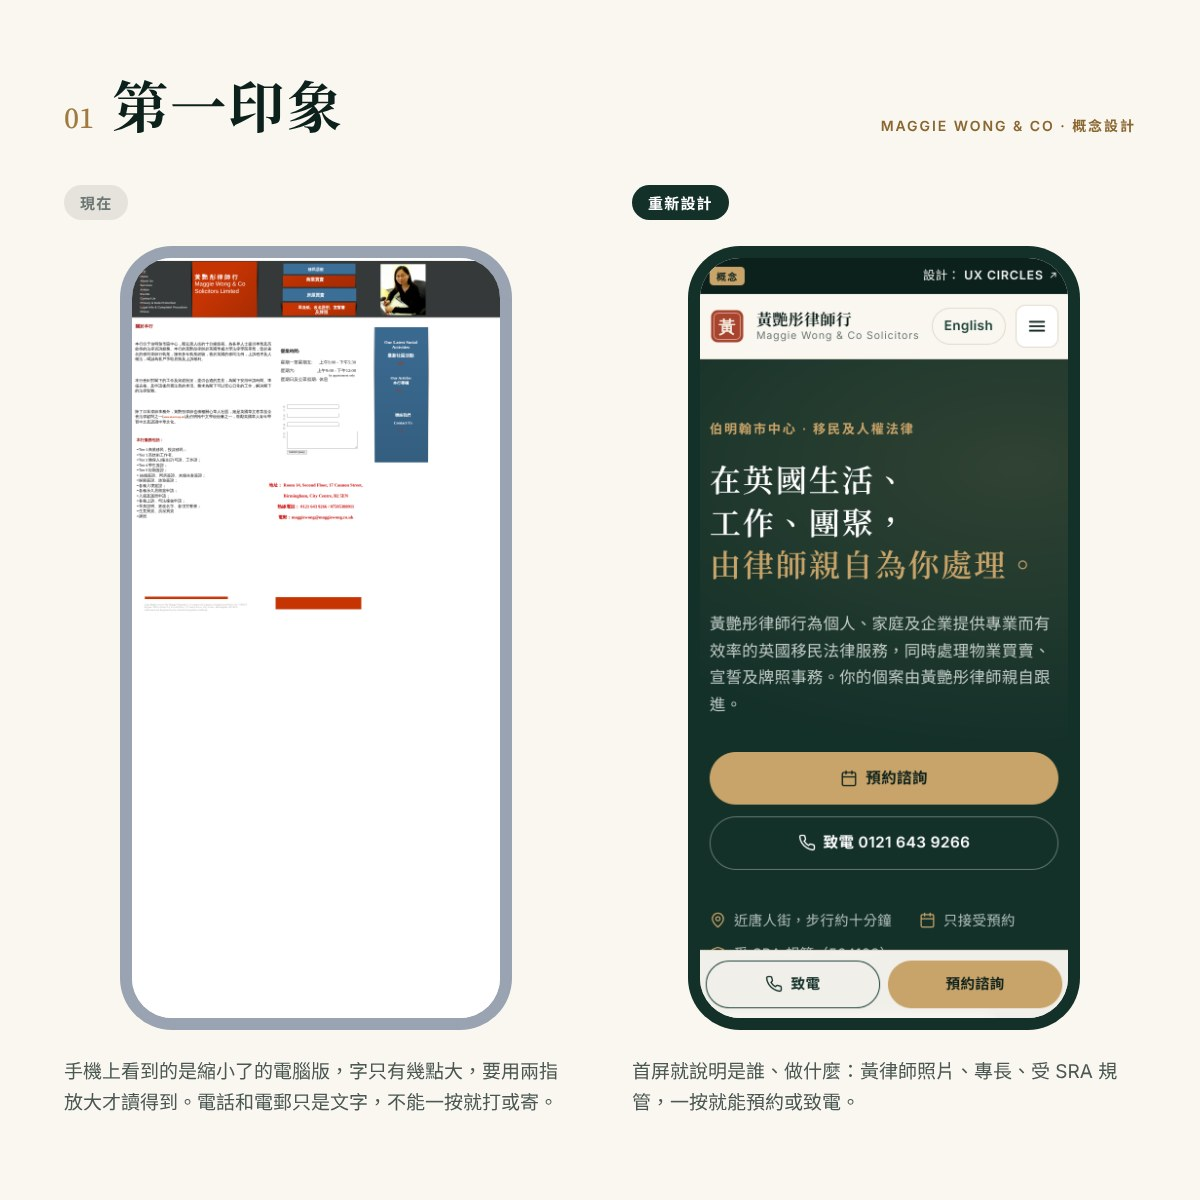
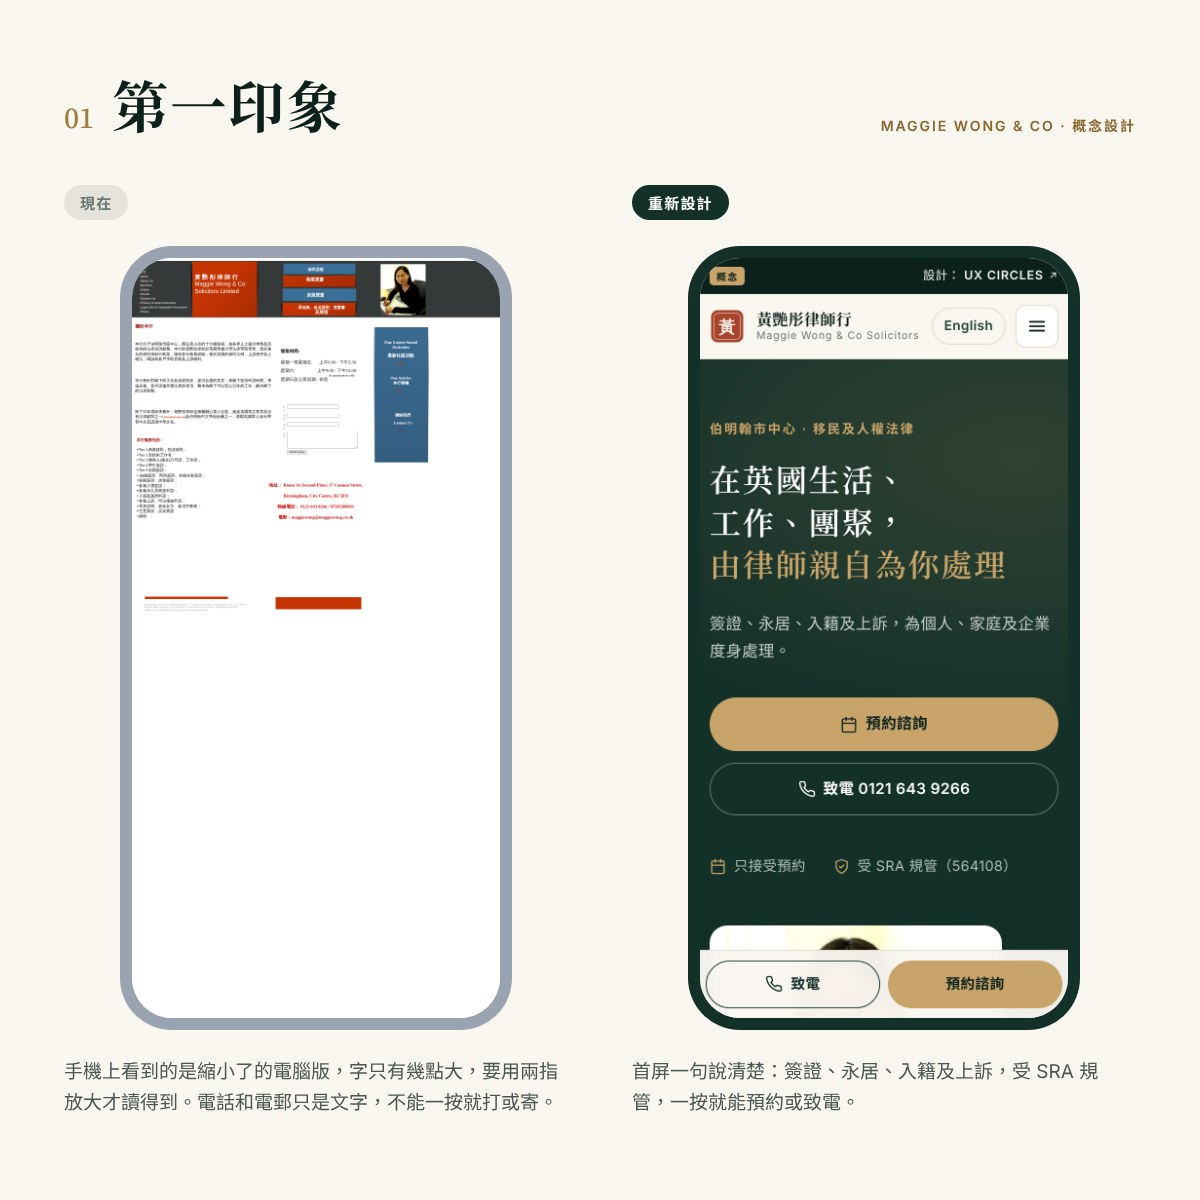
Trim the hero copy
Shortens the hero lead to one line, drops the Chinatown note (the
eyebrow and contact section already cover location), shortens the
English headline and removes the headline's closing full stop.
Regenerates before/after card 01 to match.

Claude-Session: https://claude.ai/code/session_012xdZwiqfE8irQNKYP29mur

Changed region(s): [[0.5858, 0.4933, 0.8942, 0.8017], [0.555, 0.8633, 0.925, 0.925]]

diff --git a/home.html b/home.html
@@ -46,13 +46,13 @@
   <div class="container">
     <div>
       <p class="eyebrow">伯明翰市中心 · 移民及人權法律</p>
-      <h1><span class="nw">在英國生活、</span><span class="nw">工作、團聚，</span><br><em><span class="nw">由律師親自</span><span class="nw">為你處理。</span></em></h1>
-      <p class="hero-lead">黃艷彤律師行為個人、家庭及企業提供專業而有效率的英國移民法律服務，同時處理物業買賣、宣誓及牌照事務。你的個案由黃艷彤律師親自跟進。</p>
+      <h1><span class="nw">在英國生活、</span><span class="nw">工作、團聚，</span><br><em><span class="nw">由律師親自</span><span class="nw">為你處理</span></em></h1>
+      <p class="hero-lead">簽證、永居、入籍及上訴，為個人、家庭及企業度身處理。</p>
       <div class="hero-cta">
         <a class="btn btn-primary" href="#contact"><svg viewBox="0 0 24 24" fill="none" stroke="currentColor" stroke-width="1.8" stroke-linecap="round" stroke-linejoin="round" aria-hidden="true"><rect x="3" y="4" width="18" height="18" rx="2"/><path d="M16 2v4M8 2v4M3 10h18"/></svg>預約諮詢</a>
         <a class="btn btn-ghost" href="tel:+441216439266"><svg viewBox="0 0 24 24" fill="none" stroke="currentColor" stroke-width="1.8" stroke-linecap="round" stroke-linejoin="round" aria-hidden="true"><path d="M22 16.9v3a2 2 0 0 1-2.2 2 19.8 19.8 0 0 1-8.6-3.1 19.5 19.5 0 0 1-6-6A19.8 19.8 0 0 1 2.1 4.2 2 2 0 0 1 4.1 2h3a2 2 0 0 1 2 1.7c.1.9.4 1.8.7 2.7a2 2 0 0 1-.5 2.1L8 9.8a16 16 0 0 0 6 6l1.3-1.3a2 2 0 0 1 2.1-.4c.9.3 1.8.6 2.7.7a2 2 0 0 1 1.7 2z"/></svg>致電 0121 643 9266</a>
       </div>
-      <ul class="hero-meta"><li><svg viewBox="0 0 24 24" fill="none" stroke="currentColor" stroke-width="1.8" stroke-linecap="round" stroke-linejoin="round" aria-hidden="true"><path d="M20 10c0 6-8 12-8 12s-8-6-8-12a8 8 0 0 1 16 0z"/><circle cx="12" cy="10" r="3"/></svg>近唐人街，步行約十分鐘</li><li><svg viewBox="0 0 24 24" fill="none" stroke="currentColor" stroke-width="1.8" stroke-linecap="round" stroke-linejoin="round" aria-hidden="true"><rect x="3" y="4" width="18" height="18" rx="2"/><path d="M16 2v4M8 2v4M3 10h18"/></svg>只接受預約</li><li><svg viewBox="0 0 24 24" fill="none" stroke="currentColor" stroke-width="1.8" stroke-linecap="round" stroke-linejoin="round" aria-hidden="true"><path d="M12 22s8-4 8-10V5l-8-3-8 3v7c0 6 8 10 8 10z"/><path d="m9 12 2 2 4-4"/></svg>受 SRA 規管（564108）</li></ul>
+      <ul class="hero-meta"><li><svg viewBox="0 0 24 24" fill="none" stroke="currentColor" stroke-width="1.8" stroke-linecap="round" stroke-linejoin="round" aria-hidden="true"><rect x="3" y="4" width="18" height="18" rx="2"/><path d="M16 2v4M8 2v4M3 10h18"/></svg>只接受預約</li><li><svg viewBox="0 0 24 24" fill="none" stroke="currentColor" stroke-width="1.8" stroke-linecap="round" stroke-linejoin="round" aria-hidden="true"><path d="M12 22s8-4 8-10V5l-8-3-8 3v7c0 6 8 10 8 10z"/><path d="m9 12 2 2 4-4"/></svg>受 SRA 規管（564108）</li></ul>
     </div>
     <figure class="portrait" style="margin:0">
       <div class="portrait-frame"><img src="assets/img/maggie-wong.jpg" alt="黃艷彤律師在辦公室" width="403" height="480"></div>

diff --git a/index.html b/index.html
@@ -46,13 +46,13 @@
   <div class="container">
     <div>
       <p class="eyebrow">Birmingham city centre · Immigration &amp; human rights</p>
-      <h1>Live, work and be with family in the UK — <em>with a solicitor who handles your case personally.</em></h1>
-      <p class="hero-lead">Maggie Wong &amp; Co provides professional, efficient UK immigration advice for individuals, families and businesses, as well as property, declarations and licensing work. Your case is handled by Maggie Wong herself.</p>
+      <h1>Live, work and be with family in the UK — <em>handled by your solicitor</em></h1>
+      <p class="hero-lead">Visas, settlement, citizenship and appeals for individuals, families and businesses.</p>
       <div class="hero-cta">
         <a class="btn btn-primary" href="#contact"><svg viewBox="0 0 24 24" fill="none" stroke="currentColor" stroke-width="1.8" stroke-linecap="round" stroke-linejoin="round" aria-hidden="true"><rect x="3" y="4" width="18" height="18" rx="2"/><path d="M16 2v4M8 2v4M3 10h18"/></svg>Book a consultation</a>
         <a class="btn btn-ghost" href="tel:+441216439266"><svg viewBox="0 0 24 24" fill="none" stroke="currentColor" stroke-width="1.8" stroke-linecap="round" stroke-linejoin="round" aria-hidden="true"><path d="M22 16.9v3a2 2 0 0 1-2.2 2 19.8 19.8 0 0 1-8.6-3.1 19.5 19.5 0 0 1-6-6A19.8 19.8 0 0 1 2.1 4.2 2 2 0 0 1 4.1 2h3a2 2 0 0 1 2 1.7c.1.9.4 1.8.7 2.7a2 2 0 0 1-.5 2.1L8 9.8a16 16 0 0 0 6 6l1.3-1.3a2 2 0 0 1 2.1-.4c.9.3 1.8.6 2.7.7a2 2 0 0 1 1.7 2z"/></svg>Call 0121 643 9266</a>
       </div>
-      <ul class="hero-meta"><li><svg viewBox="0 0 24 24" fill="none" stroke="currentColor" stroke-width="1.8" stroke-linecap="round" stroke-linejoin="round" aria-hidden="true"><path d="M20 10c0 6-8 12-8 12s-8-6-8-12a8 8 0 0 1 16 0z"/><circle cx="12" cy="10" r="3"/></svg>About ten minutes' walk from Chinatown</li><li><svg viewBox="0 0 24 24" fill="none" stroke="currentColor" stroke-width="1.8" stroke-linecap="round" stroke-linejoin="round" aria-hidden="true"><rect x="3" y="4" width="18" height="18" rx="2"/><path d="M16 2v4M8 2v4M3 10h18"/></svg>By appointment only</li><li><svg viewBox="0 0 24 24" fill="none" stroke="currentColor" stroke-width="1.8" stroke-linecap="round" stroke-linejoin="round" aria-hidden="true"><path d="M12 22s8-4 8-10V5l-8-3-8 3v7c0 6 8 10 8 10z"/><path d="m9 12 2 2 4-4"/></svg>SRA regulated (564108)</li></ul>
+      <ul class="hero-meta"><li><svg viewBox="0 0 24 24" fill="none" stroke="currentColor" stroke-width="1.8" stroke-linecap="round" stroke-linejoin="round" aria-hidden="true"><rect x="3" y="4" width="18" height="18" rx="2"/><path d="M16 2v4M8 2v4M3 10h18"/></svg>By appointment only</li><li><svg viewBox="0 0 24 24" fill="none" stroke="currentColor" stroke-width="1.8" stroke-linecap="round" stroke-linejoin="round" aria-hidden="true"><path d="M12 22s8-4 8-10V5l-8-3-8 3v7c0 6 8 10 8 10z"/><path d="m9 12 2 2 4-4"/></svg>SRA regulated (564108)</li></ul>
     </div>
     <figure class="portrait" style="margin:0">
       <div class="portrait-frame"><img src="assets/img/maggie-wong.jpg" alt="Maggie Wong at her desk" width="403" height="480"></div>

diff --git a/_build/build.py b/_build/build.py
@@ -178,12 +178,11 @@ T = {
     "menu": L("選單", "Menu"),
     "book": L("預約諮詢", "Book a consultation"),
     "hero_eyebrow": L("伯明翰市中心 · 移民及人權法律", "Birmingham city centre · Immigration &amp; human rights"),
-    "hero_h1": L("<span class=\"nw\">在英國生活、</span><span class=\"nw\">工作、團聚，</span><br><em><span class=\"nw\">由律師親自</span><span class=\"nw\">為你處理。</span></em>", "Live, work and be with family in the UK — <em>with a solicitor who handles your case personally.</em>"),
-    "hero_lead": L("黃艷彤律師行為個人、家庭及企業提供專業而有效率的英國移民法律服務，同時處理物業買賣、宣誓及牌照事務。你的個案由黃艷彤律師親自跟進。",
-                   "Maggie Wong &amp; Co provides professional, efficient UK immigration advice for individuals, families and businesses, as well as property, declarations and licensing work. Your case is handled by Maggie Wong herself."),
+    "hero_h1": L("<span class=\"nw\">在英國生活、</span><span class=\"nw\">工作、團聚，</span><br><em><span class=\"nw\">由律師親自</span><span class=\"nw\">為你處理</span></em>", "Live, work and be with family in the UK — <em>handled by your solicitor</em>"),
+    "hero_lead": L("簽證、永居、入籍及上訴，為個人、家庭及企業度身處理。",
+                   "Visas, settlement, citizenship and appeals for individuals, families and businesses."),
     "call": L("致電", "Call"),
-    "hero_meta": [("pin", L("近唐人街，步行約十分鐘", "About ten minutes' walk from Chinatown")),
-                  ("calendar", L("只接受預約", "By appointment only")),
+    "hero_meta": [("calendar", L("只接受預約", "By appointment only")),
                   ("shield", L("受 SRA 規管（%s）" % SRA_NO, "SRA regulated (%s)" % SRA_NO))],
     "portrait_name": L("黃艷彤律師", "Maggie Wong"),
     "portrait_role": L("英格蘭及威爾斯執業律師 · 英國華威大學法律系畢業", "Solicitor, England &amp; Wales · Law graduate, University of Warwick"),
